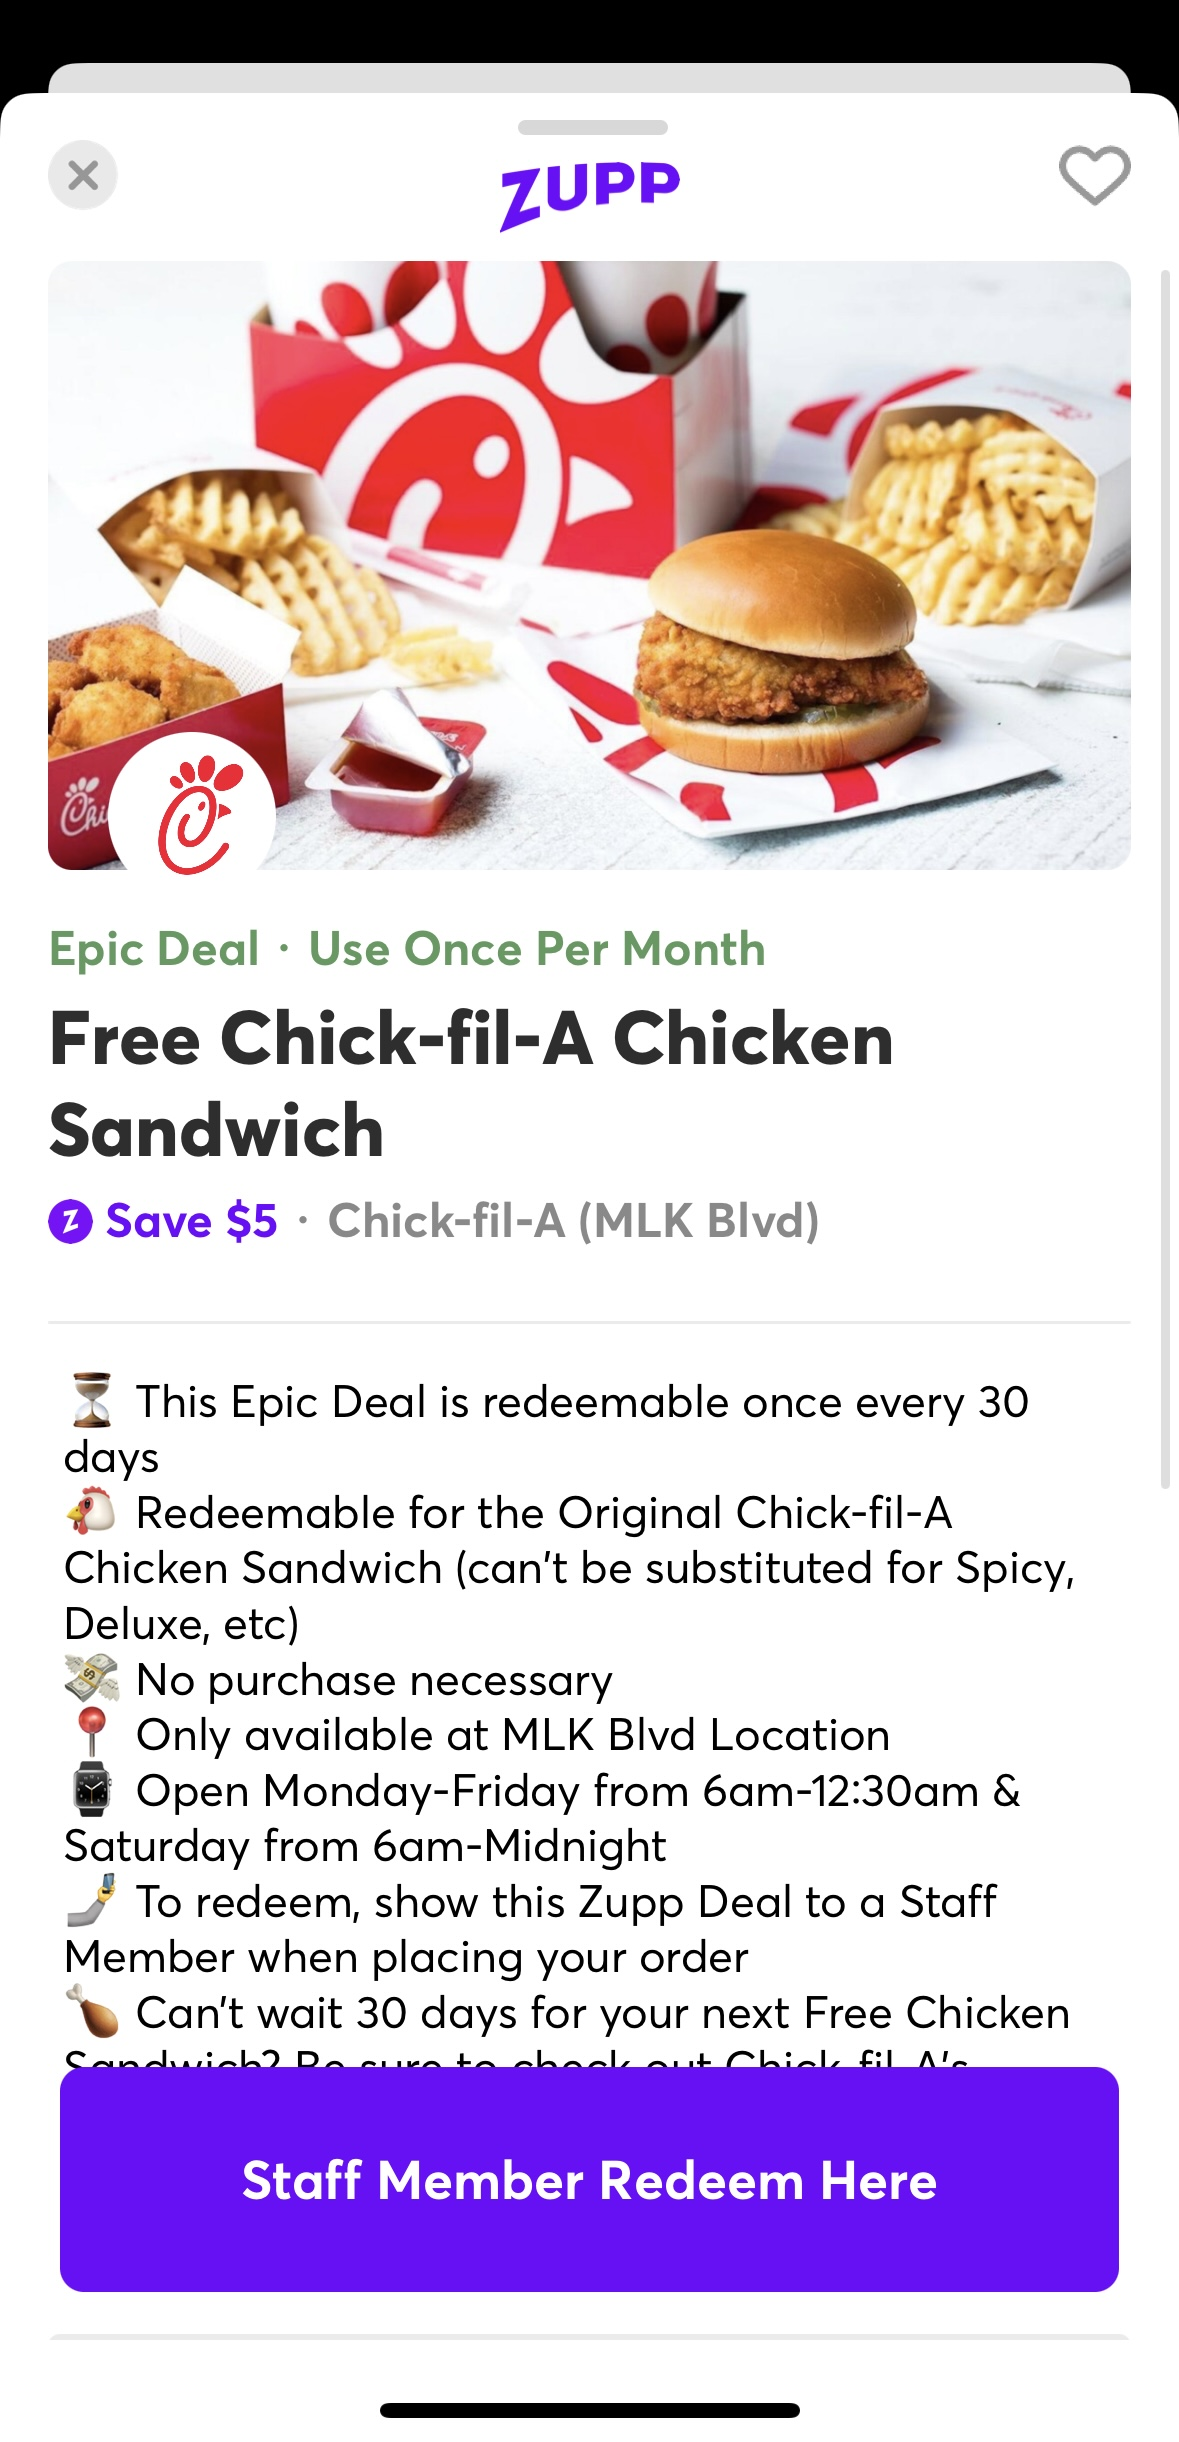
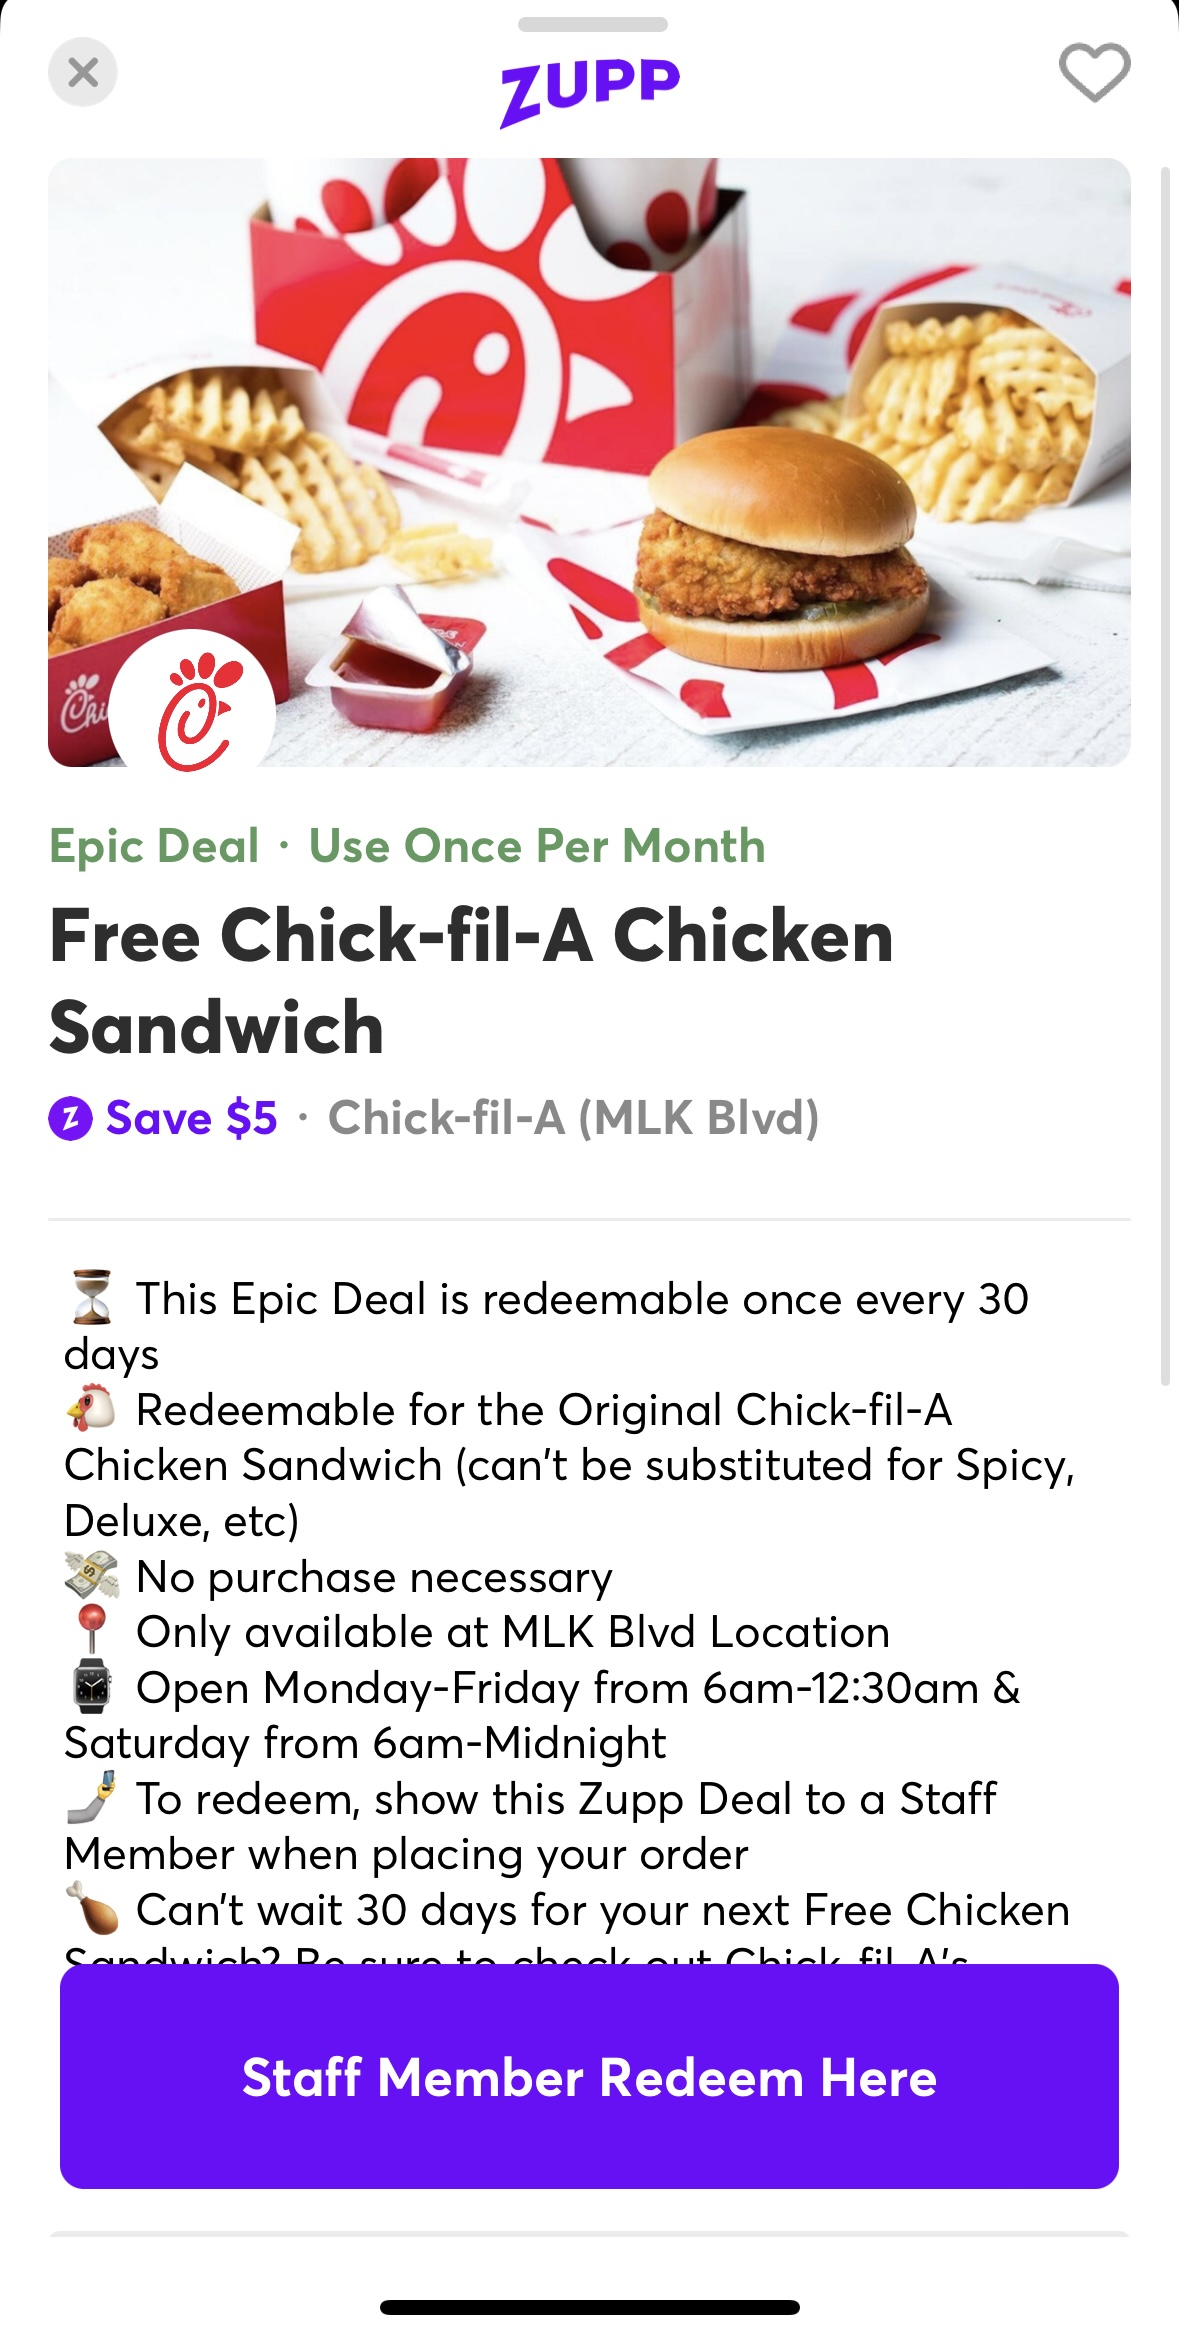
added button

diff --git a/index.html b/index.html
@@ -31,6 +31,12 @@
                 display: none;
             }
         }
+
+        .btn-purple {
+            background-color: #662edf;
+            color: white;
+            outline: none;
+        }
     </style>
 </head>
 <body>
@@ -40,6 +46,7 @@
                 <div class="iphone">
                     <div class="screen">
                         <img src="img/cfa.jpg" width="100%">
+                        <button type="button" class="btn btn-purple" style="position: relative; bottom: 156px; left: 25px; width: 90%; height: 95px; border-radius: 10px; font-size: 21px; font-family: Verdana;">Staff Member Redeem Here</button>
                     </div>
                 </div>
             </div>
